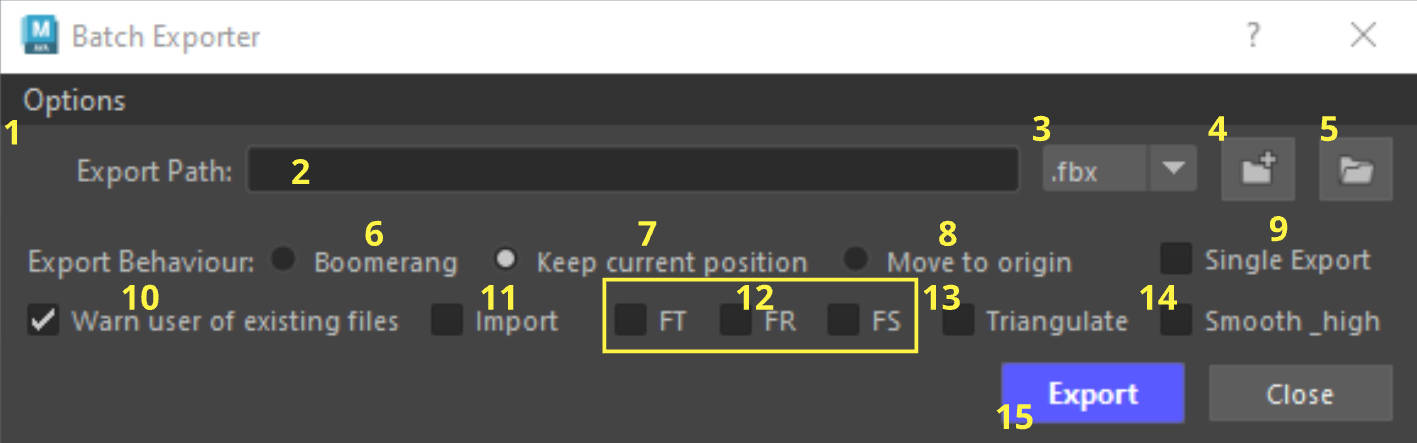
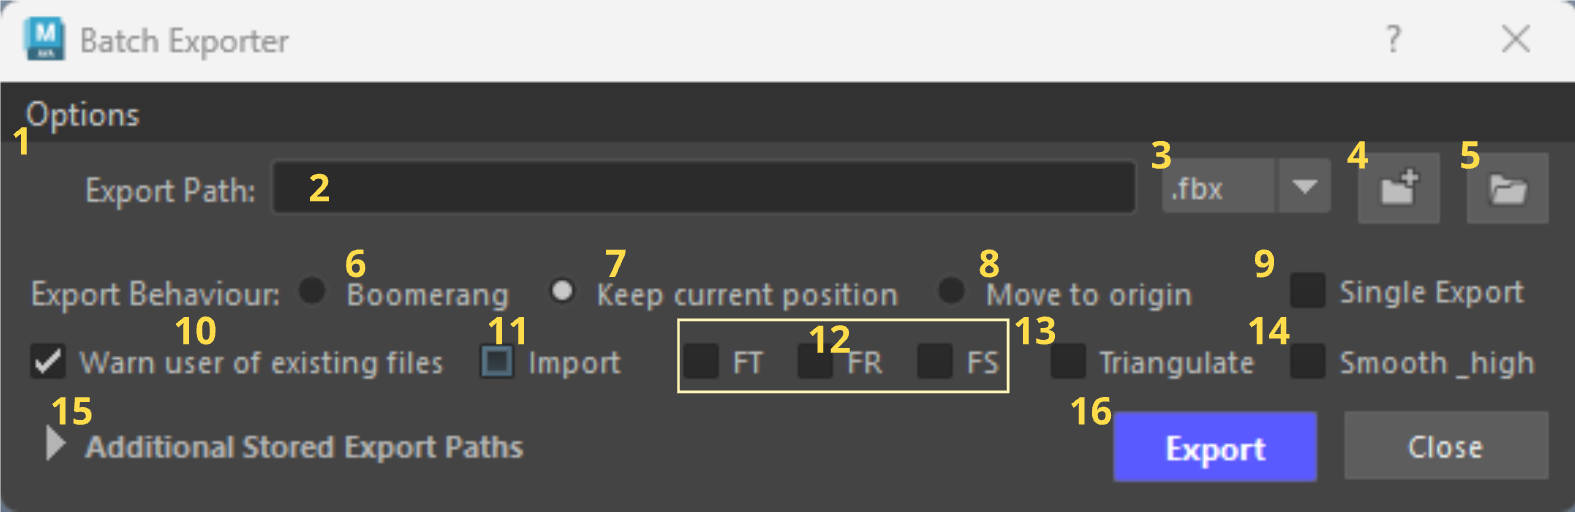
updated docs
updated docs

diff --git a/docs/Batch Exporter/Buttons_overview.md b/docs/Batch Exporter/Buttons_overview.md
@@ -30,7 +30,8 @@
 13. <span style="color:lime">Triangulate</span> - Triangulates your meshes before export. If Smooth exported .fbx files (from the Options menu) is checked the tool will export your smooth mesh preview Objects smoothed and triangulated. If Smooth_high checkbox is checked any Object with _high in its name will not be triangulated.
 14. <span style="color:lime">Smooth_high</span> - Any Object in your scene that contains the name _high will have its smoothness display set to 3 and will be exported Smoothed. Any Objects with that contain the name _low will have their smoothness display set to 1. 
 This is done so users wont have to worry about if their HP was smooth previewed before export, or if their LP had their smoothness display set to 1.
-15. <span style="color:lime">Export</span> - Exports your selected Objects
+15. <span style="color:lime">Additional Stored Export Paths</span> - Adds the ability for the users to store as many additional paths as they want. Also users have the ability to export to multiple different folder paths at the same time.
+16. <span style="color:lime">Export</span> - Exports your selected Objects
 
 ### <span style="color:rgb(199, 192, 99);">**Options Menu**</span>
 
@@ -38,12 +39,12 @@ This is done so users wont have to worry about if their HP was smooth previewed 
 
 - <span style="color:lime">Smooth exported .fbx files</span> - Allows the user to choose if they want their .fbx files to be smoothed upon export (Turning this off will still smooth your _high poly objects if Smooth_high checkbox is checked).
 - <span style="color:lime">Show Warnings Manager</span> - will display any warnings during the export process (mainly any .fbx files that were smoothed upon export).
-- <span style="color:lime">Automatically update the export path when a new scene is opened</span> - When enabled, changing scenes automatically updates your export directory to the last saved export path for that specific scene.
+- <span style="color:lime">Automatically update the export paths when a new scene is opened</span> - When enabled, it loads all paths from a previously loaded scene. Pre-requisit the scene has to be saved whilst the tool is active.
 
     ???+ Info "Info - Auto Update Path"
-        Whenever you export an object, the tool saves that export location directly into the Maya scene file.
+        Whenever you save a scene in Maya *(whilst the tool is loaded, ot clicking on the Export or Close Buttons)*, the tool saves that export location of all your paths directly into the Maya scene file.
         
-        Maya scene must be saved after export in order for this to work.
+        Opening a previously saved scene will automatically load all paths when that scene was last saved.
 
 - <span style="color:lime">Documentation</span> - Opens a link to the documentation.
 - <span style="color:lime">Store</span> - Opens links to ArtStation and Gumroad.
